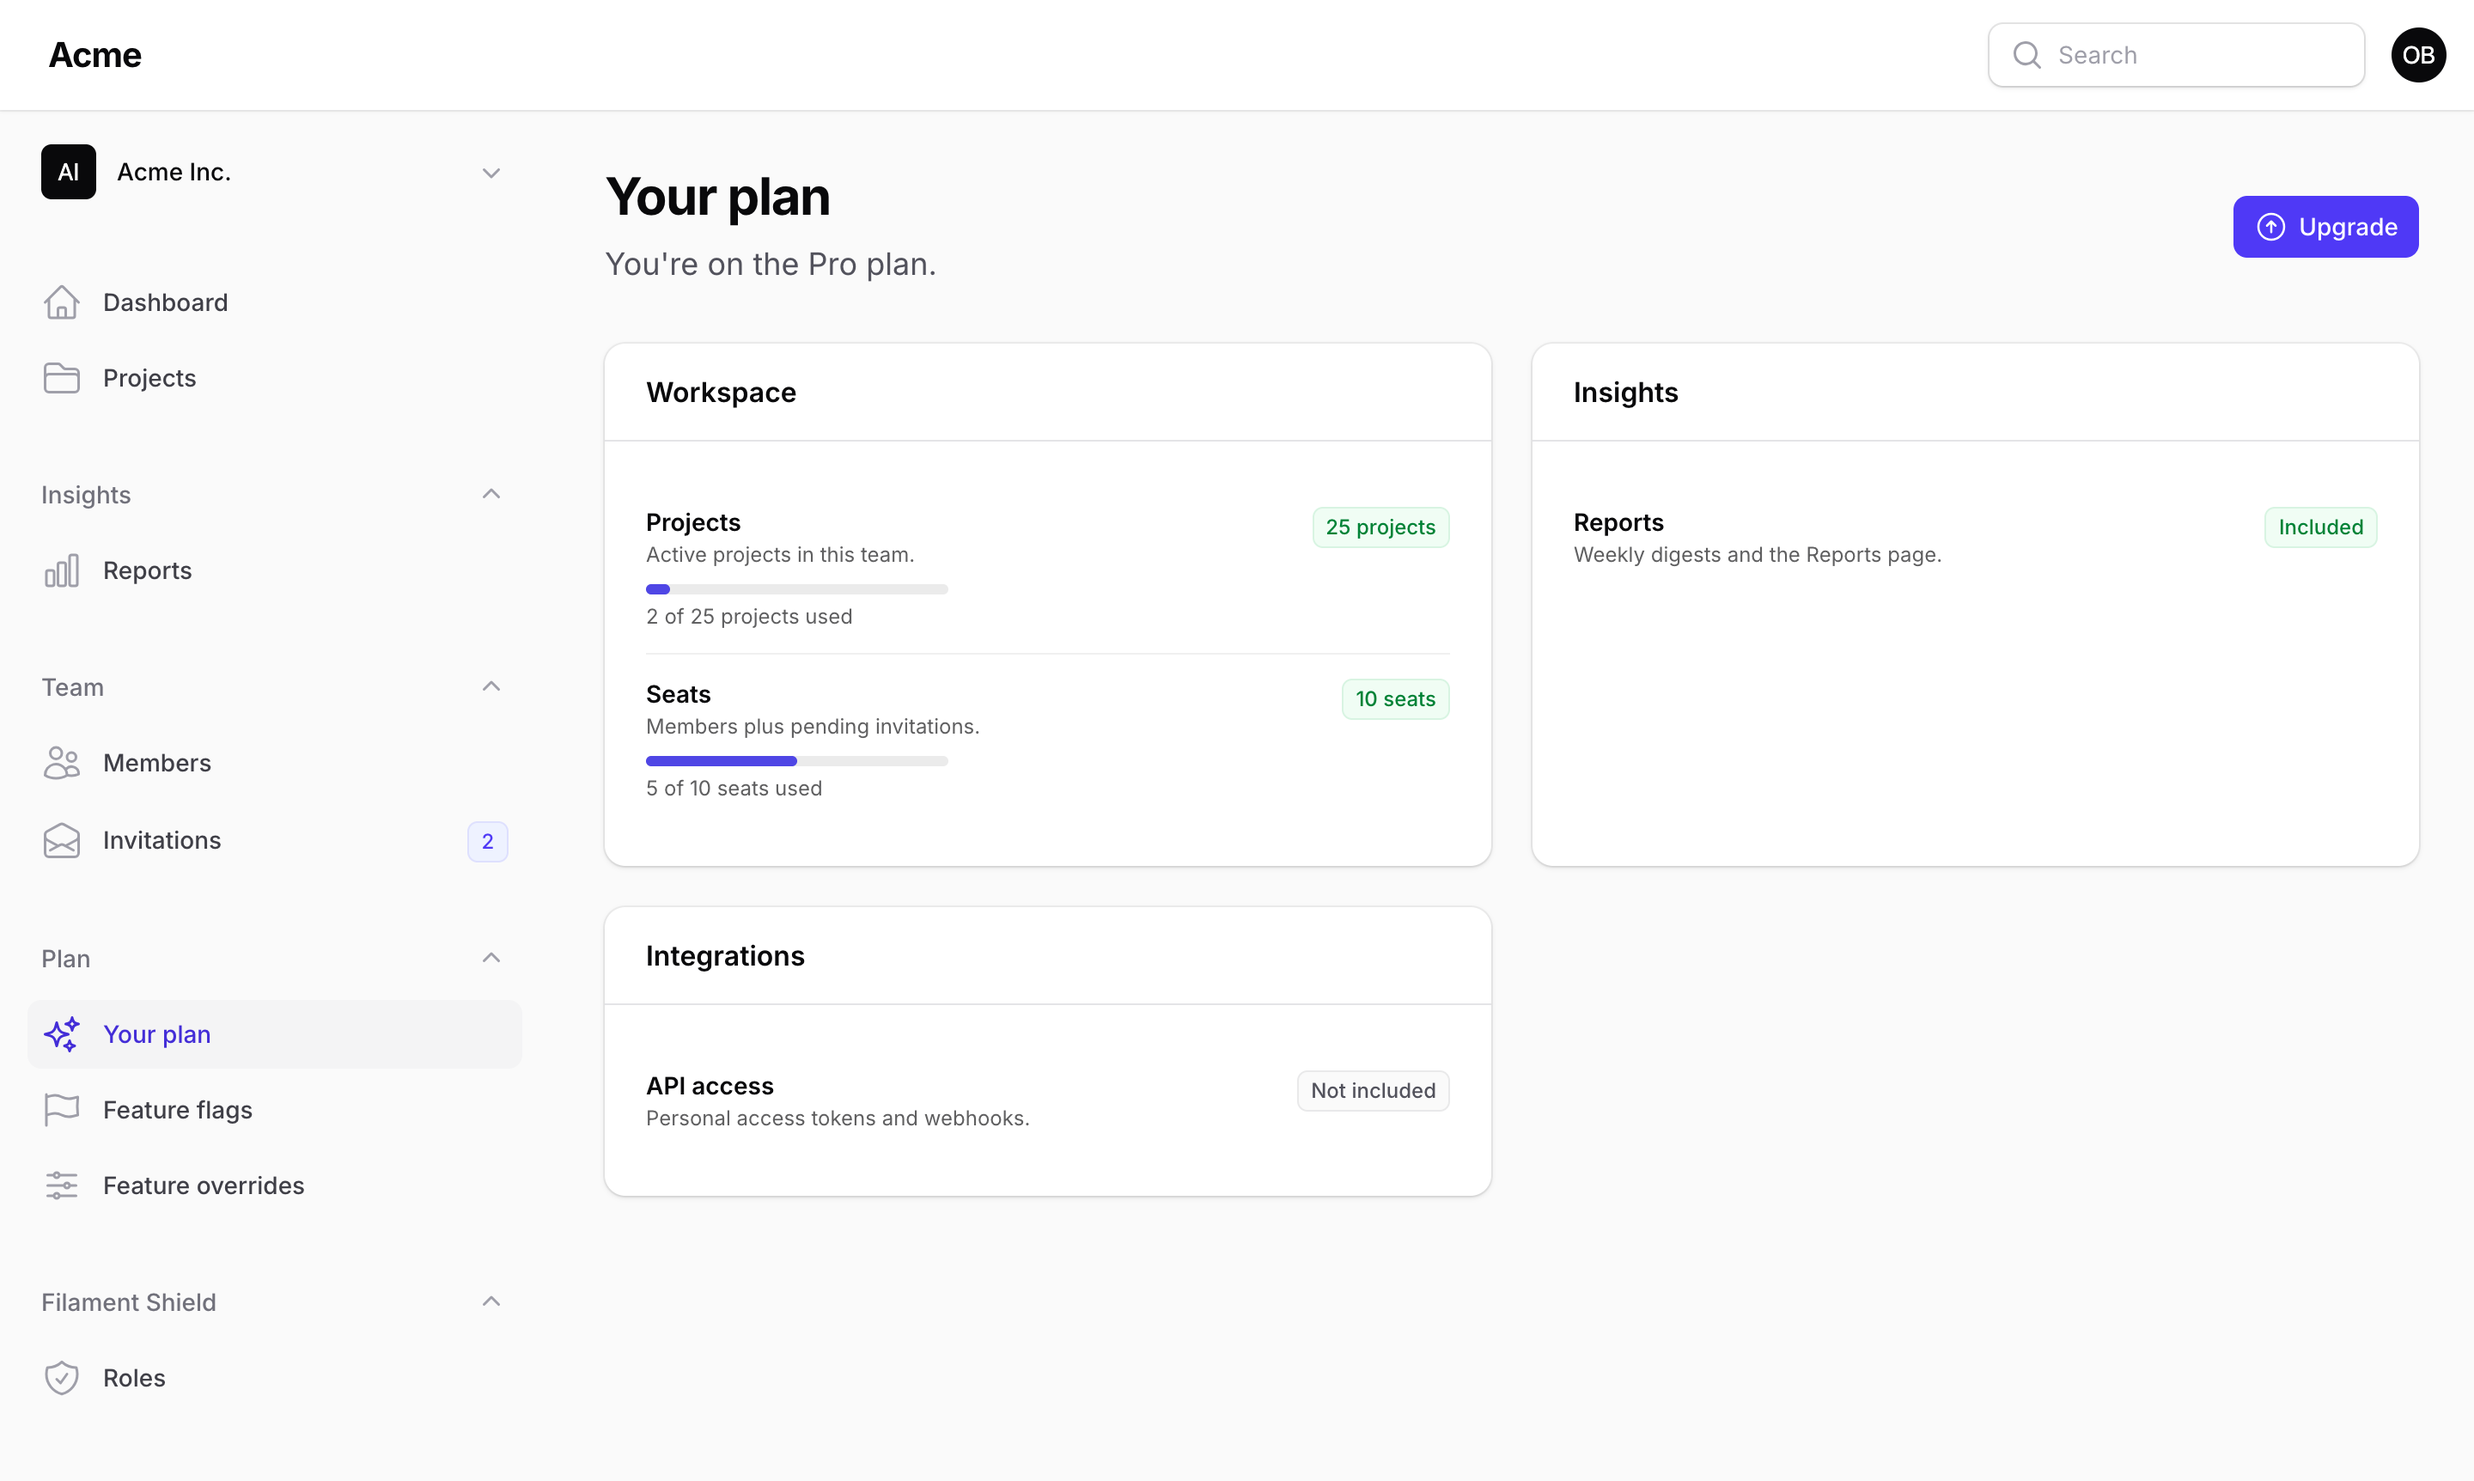
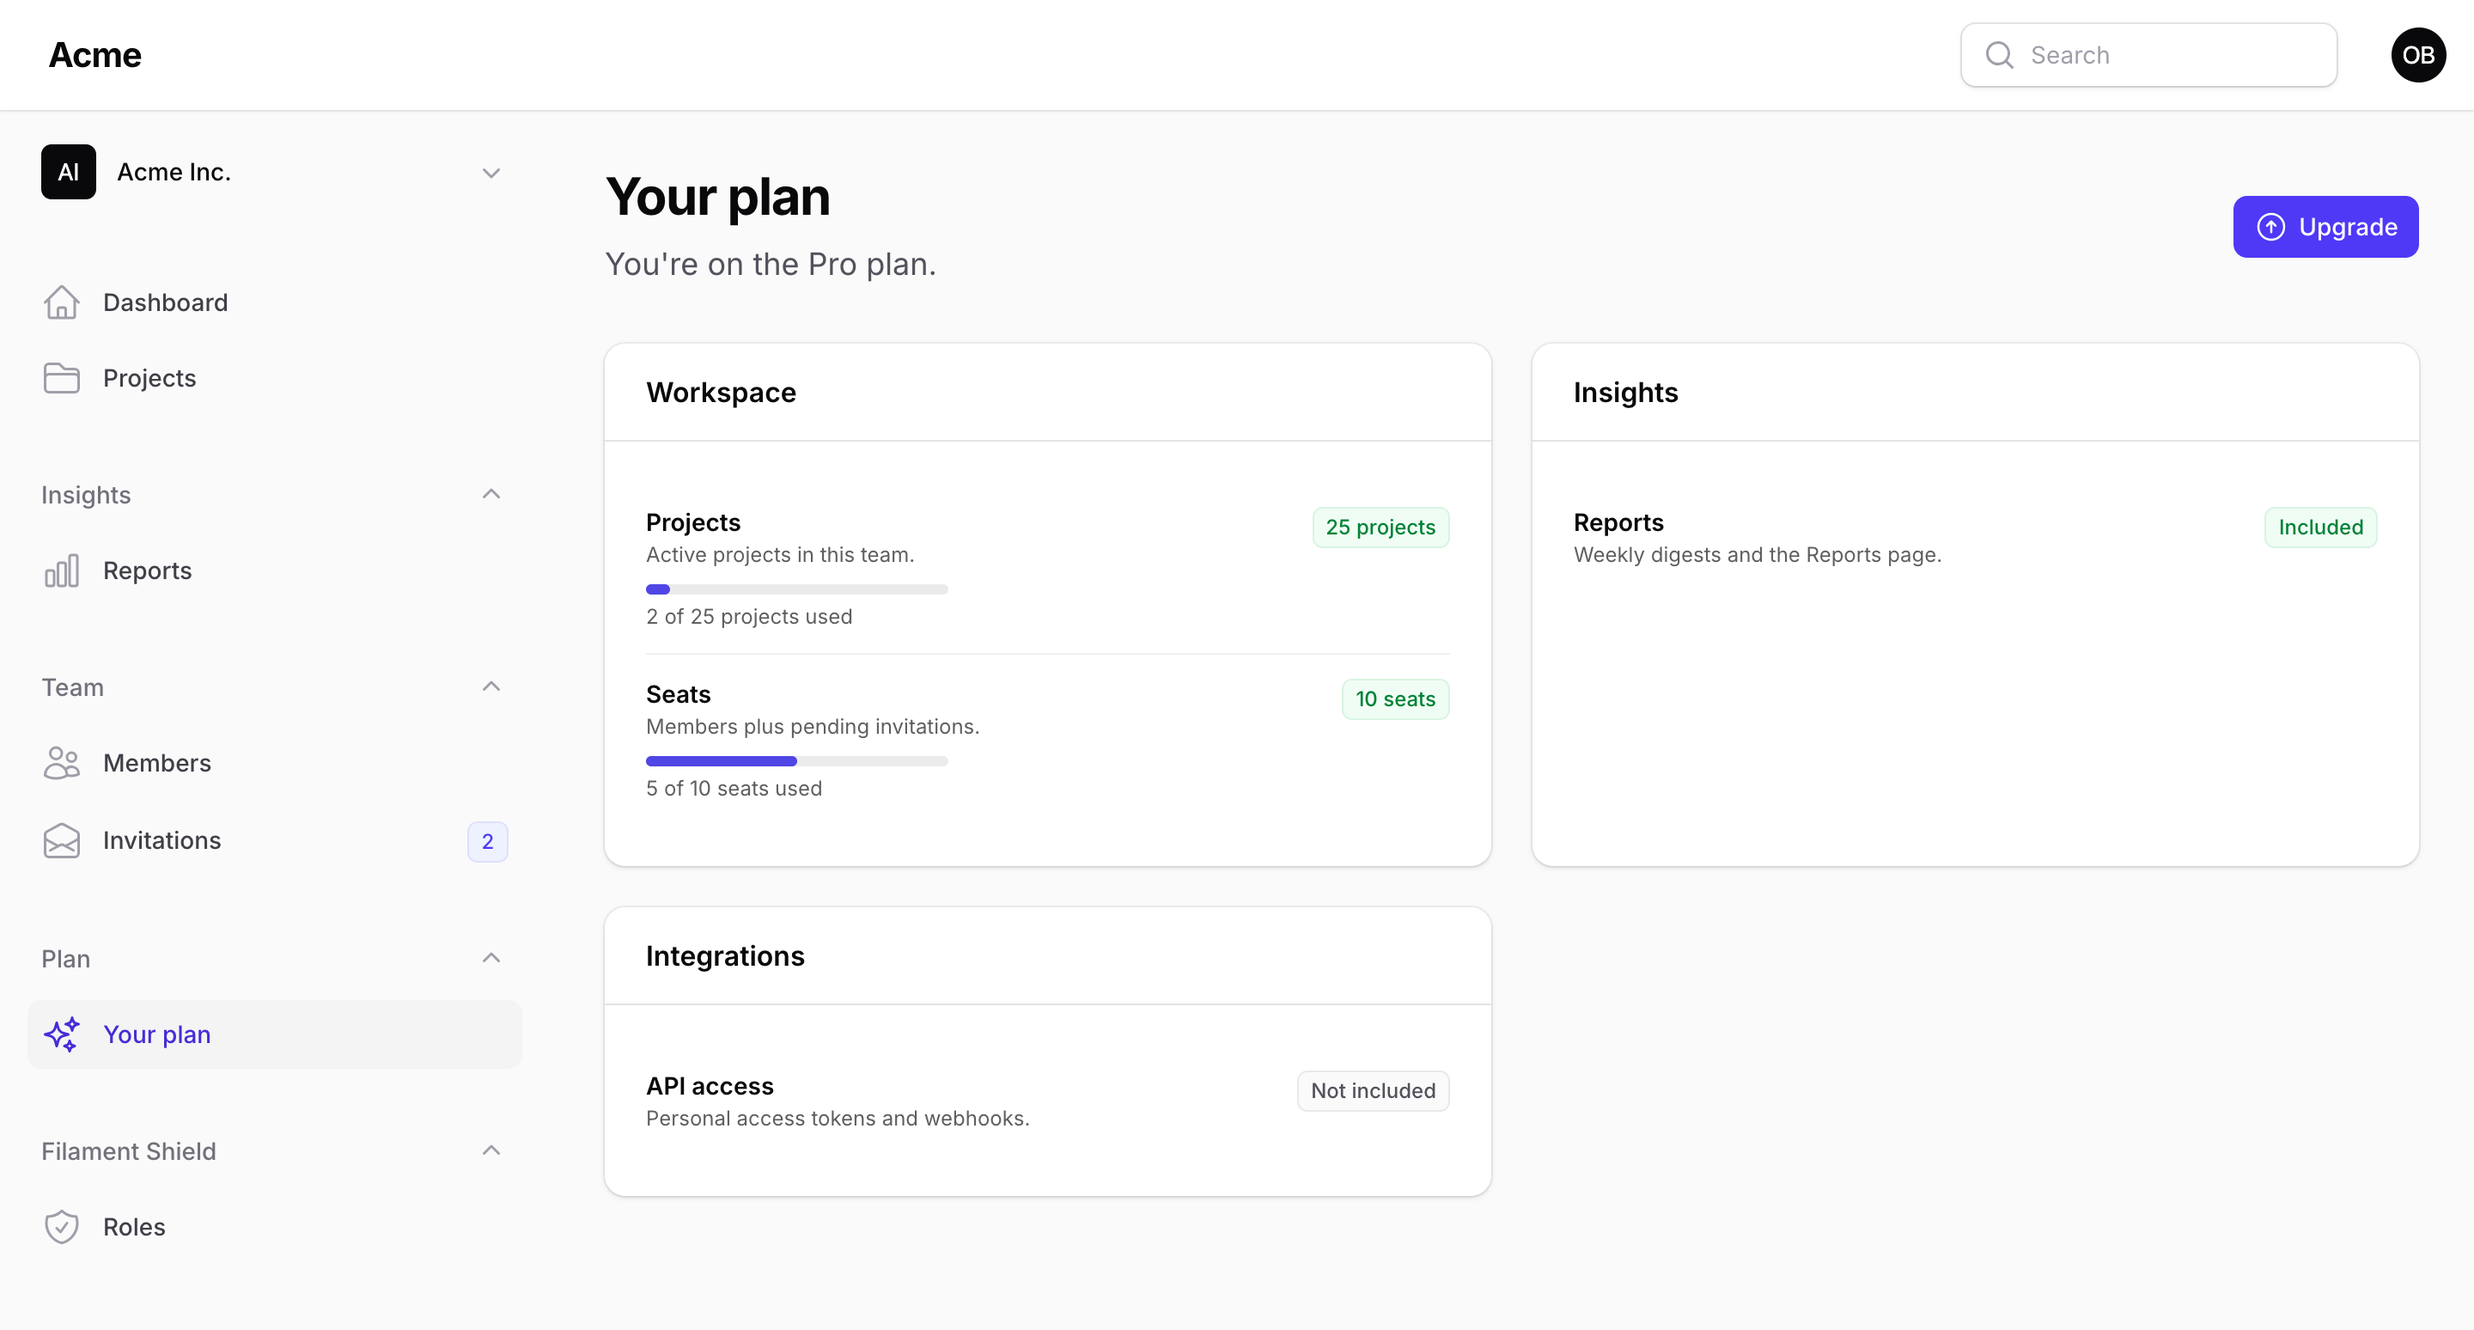
release: v1.1.0 — canManageUsing() gate, per-panel configure(); operator-panel screenshots

diff --git a/CHANGELOG.md b/CHANGELOG.md
@@ -2,7 +2,7 @@
 
 All notable changes to `packstub/filament-features` are documented here.
 
-## Unreleased
+## 1.1.0 — 2026-09-03
 
 ### Added
 
@@ -14,6 +14,10 @@ All notable changes to `packstub/filament-features` are documented here.
 
 - `FeaturesPlugin` applies its settings per panel: `configure()` pushes the panel's config overrides, feature and plan definitions, usage counters, plan resolver and upgrade URL into the runtime when the panel is registered *and* again when it boots, so an app can run several panels with different scope models and plans. Settings a panel leaves unset now fall back to the config file instead of what another panel applied. Seeders and tests that switch panels with `Filament::setCurrentPanel()` call `FeaturesPlugin::get()->configure()` afterwards.
 - `Features::resetDefinitions()` forgets runtime definitions so they reload from config.
+
+### Docs
+
+- Screenshots of the flags and overrides pages re-taken from an operator panel, matching where the pages now belong.
 
 ## 1.0.0 — 2026-08-26
 
